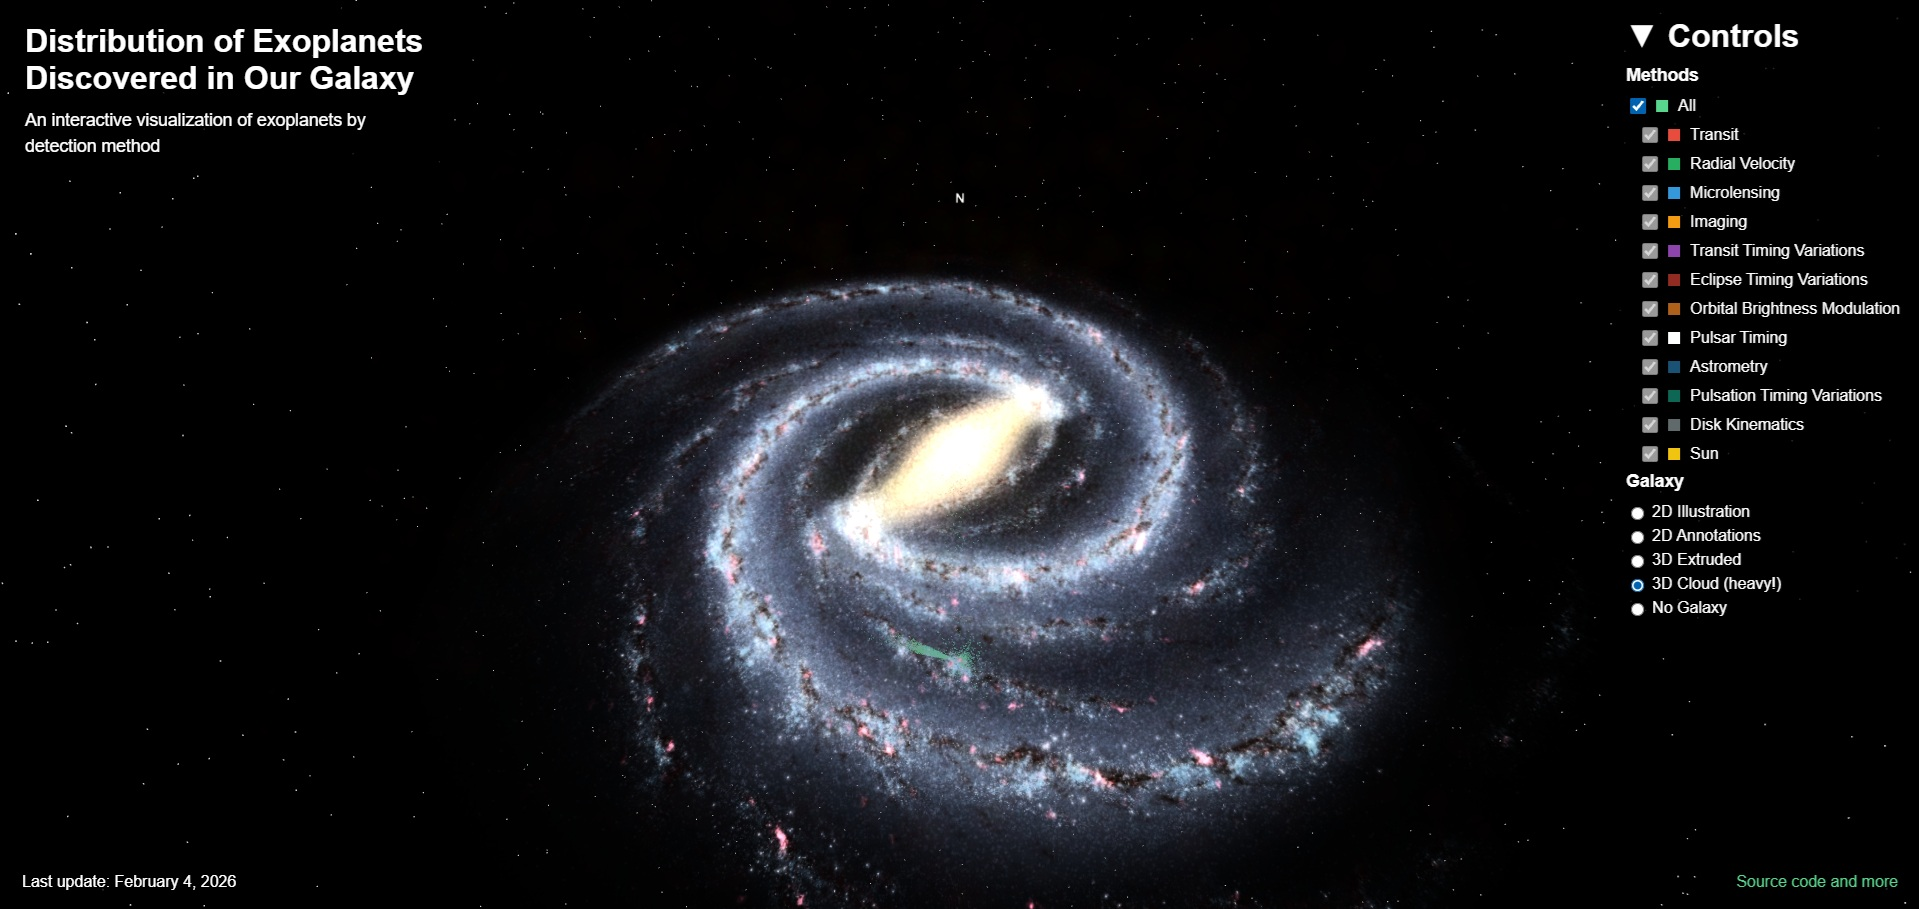
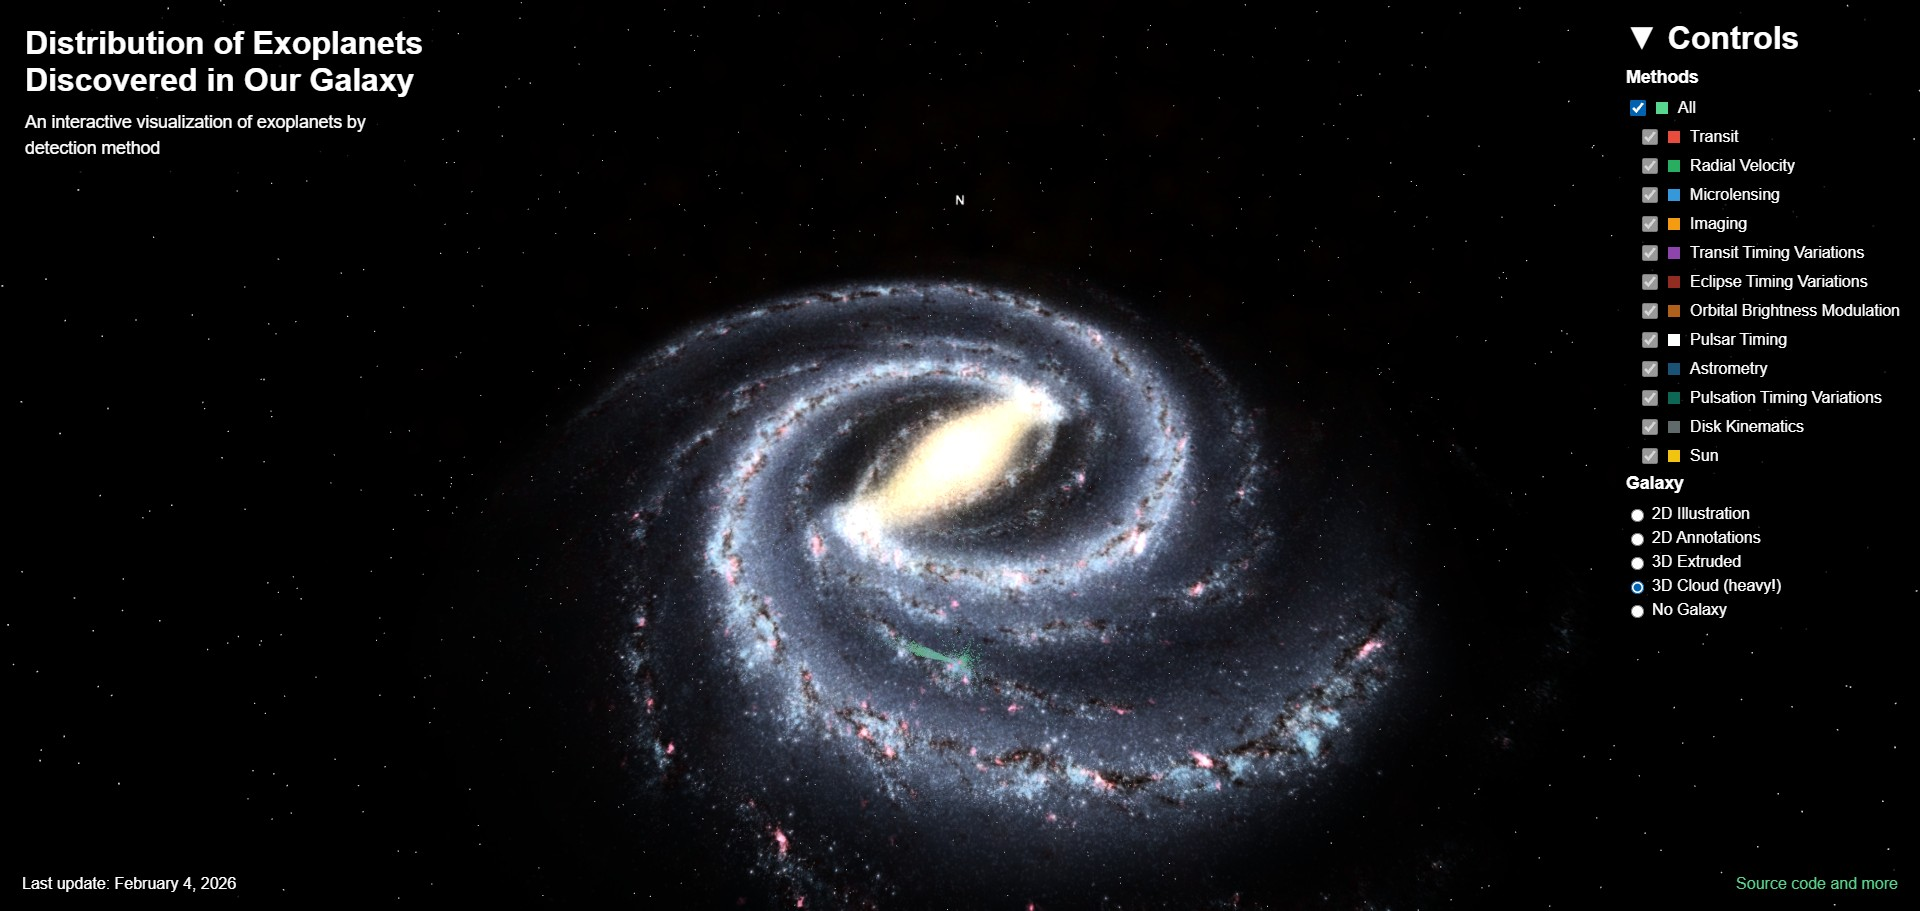
New mobile
I fixed a problem in the mobile visualization where the star dots wouldn't be rendered as intended.

diff --git a/index.html b/index.html
@@ -65,54 +65,6 @@
             overflow: hidden; /* Absolutely ensure content is hidden */
         }
 
-
-        /* Portrait or mobile mode adjustments */
-        @media (orientation: portrait) {
-            #main-title {
-                position: fixed; /* Keep title visible when scrolling */
-                top: 10px;
-                left: 50%;
-                transform: translateX(-50%); /* Center the title */
-                width: calc(100% - 40px); /* Full width with padding */
-                max-width: none; /* Remove max-width in portrait */
-                text-align: center; /* Center text within title box */
-                padding: 10px; /* Slightly less padding for compactness */
-                font-size: 1.2em;
-            }
-
-            #main-title h1 {
-                font-size: 1.4em; /* Smaller title on mobile */
-                margin-bottom: 5px;
-            }
-
-            #main-title p {
-                font-size: 1.0em; /* Smaller subtitle */
-            }
-
-            #controls {
-                position: fixed; /* Keep controls visible when scrolling */
-                top: auto; /* Remove top constraint */
-                bottom: 55px; /* Position at the bottom */
-                left: 50%;
-                transform: translateX(-50%); /* Center the controls */
-                width: calc(100% - 40px); /* Full width with padding */
-                max-width: none; /* Remove max-width in portrait */
-                z-index: 15; /* Ensure controls are always on top in mobile */
-            }
-            
-            /* For portrait, the expanded max-height can be more constrained */
-            #controls-content:not(.collapsed) {
-                max-height: 70vh; /* Adjust as needed, limits height when expanded in portrait */
-                overflow-y: auto; /* Allow scrolling when expanded if content exceeds 70vh */
-                padding-bottom: 20px; /* Add some padding at the bottom of the scrollable area */
-            }
-
-            #controls h3 {
-                justify-content: center; /* Center the "Controls" title */
-                margin-bottom: 10px; /* Add some space below the title in mobile */
-            }
-        }
-
         /* General control styling */
         #controls h3 {
             margin: 0 0 10px 0;
@@ -245,6 +197,84 @@
 
         #source-link a:hover {
             text-decoration: underline;
+        }
+
+        /* Portrait or mobile mode adjustments */
+        @media (max-width: 768px), (orientation: portrait) {
+            #main-title {
+                position: fixed; /* Keep title visible when scrolling */
+                top: 10px;
+                left: 50%;
+                transform: translateX(-50%); /* Center the title */
+                width: calc(100% - 40px); /* Full width with padding */
+                max-width: none; /* Remove max-width in portrait */
+                text-align: center; /* Center text within title box */
+                padding: 12px; /* Slightly less padding for compactness */
+            }
+
+            #main-title h1 {
+                font-size: 2.0em;
+                margin-bottom: 8px;
+            }
+
+            #main-title p {
+                font-size: 1.8em;
+            }
+
+            #controls {
+                position: fixed; /* Keep controls visible when scrolling */
+                top: auto; /* Remove top constraint */
+                bottom: 65px; /* Position at the bottom */
+                left: 50%;
+                transform: translateX(-50%); /* Center the controls */
+                width: calc(100% - 40px); /* Full width with padding */
+                max-width: none; /* Remove max-width in portrait */
+                z-index: 15; /* Ensure controls are always on top in mobile */
+                font-size: 2.0em; /* Increase overall font size in controls */
+            }
+            
+            /* For portrait, the expanded max-height can be more constrained */
+            #controls-content:not(.collapsed) {
+                max-height: 70vh; /* Adjust as needed, limits height when expanded in portrait */
+                overflow-y: auto; /* Allow scrolling when expanded if content exceeds 70vh */
+                padding-bottom: 20px; /* Add some padding at the bottom of the scrollable area */
+            }
+
+            #controls h3 {
+                justify-content: center; /* Center the "Controls" title */
+                margin-bottom: 10px; /* Add some space below the title in mobile */
+                font-size: 2.5rem;
+            }
+
+            .arrow {
+                font-size: 0.9em;
+            }
+
+            #update-date {
+                font-size: 1.5em;
+                padding: 10px 14px;
+            }
+
+            #source-link {
+                font-size: 1.5em;
+                font-weight: 600;
+                padding: 10px 14px;
+            }
+
+            /* Move loading messages to top on mobile */
+            #loading-textures,
+            #loading-mesh,
+            #loading-cloud {
+                position: fixed !important; /* Ensure fixed positioning on mobile */
+                bottom: auto !important; /* Remove bottom positioning */
+                top: 120px !important; /* Position below the title box */
+                left: 50% !important;
+                transform: translateX(-50%) !important;
+                font-size: 2.0em; /* Slightly smaller on mobile */
+                padding: 12px 20px;
+                height: auto !important; /* Ensure box doesn't stretch */
+                width: auto !important; /* Let content determine width */
+            }
         }
 
     </style>
@@ -404,6 +434,7 @@
             camera = new THREE.PerspectiveCamera(75, window.innerWidth / window.innerHeight, 1, 1000000);
             renderer = new THREE.WebGLRenderer({ antialias: true });
             renderer.setSize(window.innerWidth, window.innerHeight);
+            renderer.setPixelRatio(Math.min(window.devicePixelRatio, 2));
             document.body.appendChild(renderer.domElement);
 
             document.getElementById('all-checkbox')
@@ -749,8 +780,10 @@
             const nebulaTexture = await textureLoader.loadAsync('./images/MW_nebula_mask_small.png');
             const sprite = textureLoader.load('./images/fuzzy_circle.png');
 
-            const starCount = 200000; 
-            const nebulaCount = 10000;
+            const isMobile = window.matchMedia("(pointer: coarse)").matches;
+
+            const starCount = isMobile ? 50000 : 150000;
+            const nebulaCount = isMobile ? 5000: 10000;
             const totalCount = starCount + nebulaCount;
 
             const geometry = new THREE.BufferGeometry();
@@ -780,7 +813,7 @@
                 let pixelIndex = (Math.floor(ry) * cloudTexture.image.width + Math.floor(rx)) * 4;
                 let brightness = (cloudData[pixelIndex] + cloudData[pixelIndex+1] + cloudData[pixelIndex+2]) / 765;
 
-                if (Math.random() < Math.pow(brightness, 5.0)) {
+                if (Math.random() < Math.pow(brightness, 6.0)) {
                     let posX = (rx / cloudTexture.image.width - 0.5) * config.galaxySize;
                     let posZ = (ry / cloudTexture.image.height - 0.5) * config.galaxySize;
                     
@@ -857,44 +890,61 @@
             const unifiedMaterial = new THREE.ShaderMaterial({
                 uniforms: {
                     pointTexture: { value: sprite },
-                    dustOpacity: { value: 0.2 }
+                    dustOpacity: { value: isMobile ? 0.3 : 0.2 },
+
+                    starSize: { value: isMobile ? 600.0 : 300.0 },
+                    dustSize: { value: isMobile ? 900.0 : 500.0 },
+
+                    starAlphaBoost: { value: isMobile ? 2.0 : 1.0 },
+                    dustAlphaBoost: { value: isMobile ? 1.6 : 1.0 },
+
+                    pixelRatio: { value: Math.min(window.devicePixelRatio, 2) }
                 },
                 vertexShader: `
+                    uniform float pixelRatio;
+                    uniform float starSize;
+                    uniform float dustSize;
+
                     attribute float blendType;
                     attribute vec3 color;
+
                     varying vec3 vColor;
                     varying float vBlend;
+
                     void main() {
                         vColor = color;
                         vBlend = blendType;
-                        vec4 mvPosition = modelViewMatrix * vec4( position, 1.0 );
-                        float sizeScale = (vBlend > 0.5) ? 500.0 : 250.0; // dust : stars
-                        gl_PointSize = sizeScale * ( 1000.0 / length( mvPosition.xyz ) );
+
+                        vec4 mvPosition = modelViewMatrix * vec4(position, 1.0);
+
+                        float sizeScale = (vBlend > 0.5) ? dustSize : starSize;
+                        float size = sizeScale * pixelRatio * (1000.0 / length(mvPosition.xyz));
+
+                        gl_PointSize = clamp(size, 1.0, 64.0);
                         gl_Position = projectionMatrix * mvPosition;
                     }
                 `,
                 fragmentShader: `
                     uniform sampler2D pointTexture;
                     uniform float dustOpacity;
+                    uniform float starAlphaBoost;
+                    uniform float dustAlphaBoost;
+
                     varying vec3 vColor;
                     varying float vBlend;
 
                     void main() {
-                        vec4 tex = texture2D( pointTexture, gl_PointCoord );
+                        vec4 tex = texture2D(pointTexture, gl_PointCoord);
                         if (tex.a < 0.01) discard;
 
                         if (vBlend < 0.5) {
-                            // STARS: Very high alpha for strong occlusion
-                            float starAlpha = tex.a * 0.1;
-                            float starBrightness = 1.5;
-                            vec3 premultColor = vColor * starBrightness * starAlpha;
-                            gl_FragColor = vec4(premultColor, starAlpha);
+                            float a = tex.a * 0.1 * starAlphaBoost;
+                            vec3 col = vColor * 1.5 * a;
+                            gl_FragColor = vec4(col, a);
                         } else {
-                            // DUST: Maximum occlusion
-                            float dustAlpha = tex.a * dustOpacity;
-                            float dustBrightness = 0.5;
-                            vec3 premultColor = vColor * dustBrightness * dustAlpha;
-                            gl_FragColor = vec4(premultColor, dustAlpha);
+                            float a = tex.a * dustOpacity * dustAlphaBoost;
+                            vec3 col = vColor * 0.5 * a;
+                            gl_FragColor = vec4(col, a);
                         }
                     }
                 `,
@@ -968,9 +1018,11 @@
             const haloMaterial = new THREE.ShaderMaterial({
                 uniforms: {
                     pointTexture: { value: sprite },
-                    baseOpacity: { value: 0.004 } // Very subtle
+                    baseOpacity: { value: 0.004 }, // Very subtle
+                    pixelRatio: { value: Math.min(window.devicePixelRatio, 2) }
                 },
                 vertexShader: `
+                    uniform float pixelRatio;
                     attribute vec3 color;
                     attribute float customAlpha;
                     varying vec3 vColor;
@@ -980,7 +1032,7 @@
                         vColor = color;
                         vAlpha = customAlpha;
                         vec4 mvPosition = modelViewMatrix * vec4(position, 1.0);
-                        gl_PointSize = 10000.0 * (1000.0 / length(mvPosition.xyz));
+                        gl_PointSize = 10000.0 * pixelRatio *(1000.0 / length(mvPosition.xyz));
                         gl_Position = projectionMatrix * mvPosition;
                     }
                 `,
@@ -1271,6 +1323,15 @@
             camera.aspect = window.innerWidth / window.innerHeight;
             camera.updateProjectionMatrix();
             renderer.setSize(window.innerWidth, window.innerHeight);
+
+            const dpr = Math.min(window.devicePixelRatio, 2);
+
+            if (galaxyCloud) {
+                galaxyCloud.material.uniforms.pixelRatio.value = dpr;
+            }
+            if (galaxyHalo) {
+                galaxyHalo.material.uniforms.pixelRatio.value = dpr;
+            }
         });
     </script>
 
